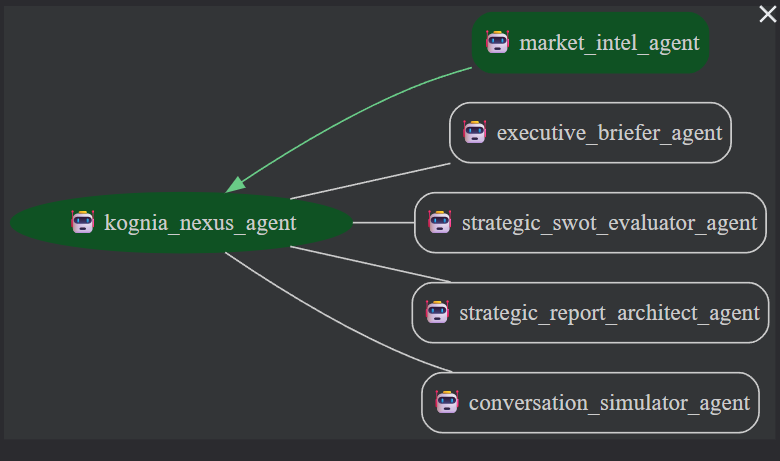
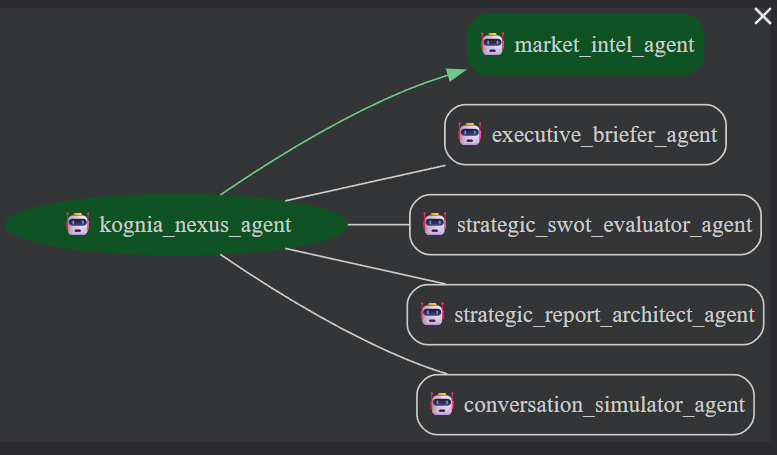
Optimized Kognia Nexus instruction set. Revised README

diff --git a/agents/agent.py b/agents/agent.py
@@ -46,6 +46,7 @@ instruction = """
         *   "Summarize the SWOT for [Company]" → "`MarketIntel Analyst`" -> "`StrategicSWOT Evaluator`" -> "`Executive Briefer`".
         *   "Simulate a focus group on [Topic] after market research" -> "`MarketIntel Analyst`" -> "`Conversation Simulator`".
         *   "Write a strategic report on [Topic] before market research" -> "`MarketIntel Analyst`" -> "`StrategicSwot Evaluator`" -> "`StrategicReport Architect`".
+        *   "Write a strategic report on [Topic], identifying several key [Elements] behind the [Topic]" -> "`MarketIntel Analyst`" -> "`StrategicSwot Evaluator`" -> "`StrategicReport Architect`".
 
 3.  **Strict Coordination, No Independent Generation:**
     *   **NEVER** directly generate research content, summaries, SWOT analyses, simulations, or reports yourself. 

diff --git a/README.md b/README.md
@@ -39,8 +39,13 @@ Kognia AI functions as a virtual strategy team rather than a simple chatbot. It 
 
 Kognia AI uses a hierarchical orchestration pattern. Agents are specialized and lightweight, reducing hallucination risk and improving reliability. The orchestrator delegates tasks to specialists, which then return structured outputs for synthesis and reporting.
 
+
 ![Kognia AI Architecture diagram](assets/architecture.png)
 > Visual representation of the Kognia AI architecture
+
+![Kognia AI Architecture diagram](assets/architecture2.png)
+> Visual representation of the Kognia AI architecture
+
 
 **The orchestrator — `kognia_nexus_agent`**
 
@@ -48,9 +53,9 @@ Built with Google ADK primitives, the orchestrator evaluates user intent and ass
 
 **Specialist agents (examples)**
 
-- Market Intel Analyst (`market_intel_analyst_agent`) — collects and verifies factual data using grounded search and URL/context scraping.
+- Market Intel Analyst (`market_intel_agent`) — collects and verifies factual data using grounded search and URL/context scraping.
 - SWOT Evaluator (`strategic_swot_evaluator_agent`) — applies strategic frameworks to categorize strengths, weaknesses, opportunities and threats.
-- Report Architect (`strategic_report_architect`) — merges research and analysis into client-ready reports.
+- Report Architect (`strategic_report_architect_agent`) — merges research and analysis into client-ready reports.
 - Executive Briefer (`executive_briefer_agent`) — distills long reports into concise executive summaries.
 - Conversation Simulator (`conversation_simulator_agent`) — roleplays audience personas to test messaging and surface issues.
 
@@ -125,7 +130,10 @@ Environment variables required or commonly used by the project:
 
 - `DATABASE_URL` — Postgres connection string, e.g. `postgresql://user:pass@host:5432/dbname`
 - `SUPABASE_JWT_SECRET` — Supabase project's JWT secret (may be Base64 encoded; the app will attempt to decode)
+- `GOOGLE_API_KEY` — Api key for accessing Gemini models. 
+- `GOOGLE_GENAI_USE_VERTEXAI` — false
 - `GOOGLE_APPLICATION_CREDENTIALS` — Optional path to Google service account JSON for ADK/GenAI
+- `PYTHON_VERSION` — 3.11.9 
 
 Use your host's secret manager (Render secrets, GCP Secret Manager, etc.) to store these securely.
 
@@ -198,7 +206,7 @@ Consult the Google ADK documentation for authentication, usage quotas, and best 
 
 Render
 
-- Use the provided `render.yaml` or create a new Web Service. Set environment variables (`DATABASE_URL`, `SUPABASE_JWT_SECRET`, and optionally `GOOGLE_APPLICATION_CREDENTIALS`).
+- Use the provided `render.yaml` or create a new Web Service. Set environment variables (`DATABASE_URL`, `SUPABASE_JWT_SECRET`, `GOOGLE_API_KEY` and optionally `GOOGLE_APPLICATION_CREDENTIALS`).
 - Build: `pip install -r requirements.txt`.
 - Start: `uvicorn main:app --host 0.0.0.0 --port $PORT`.
 
